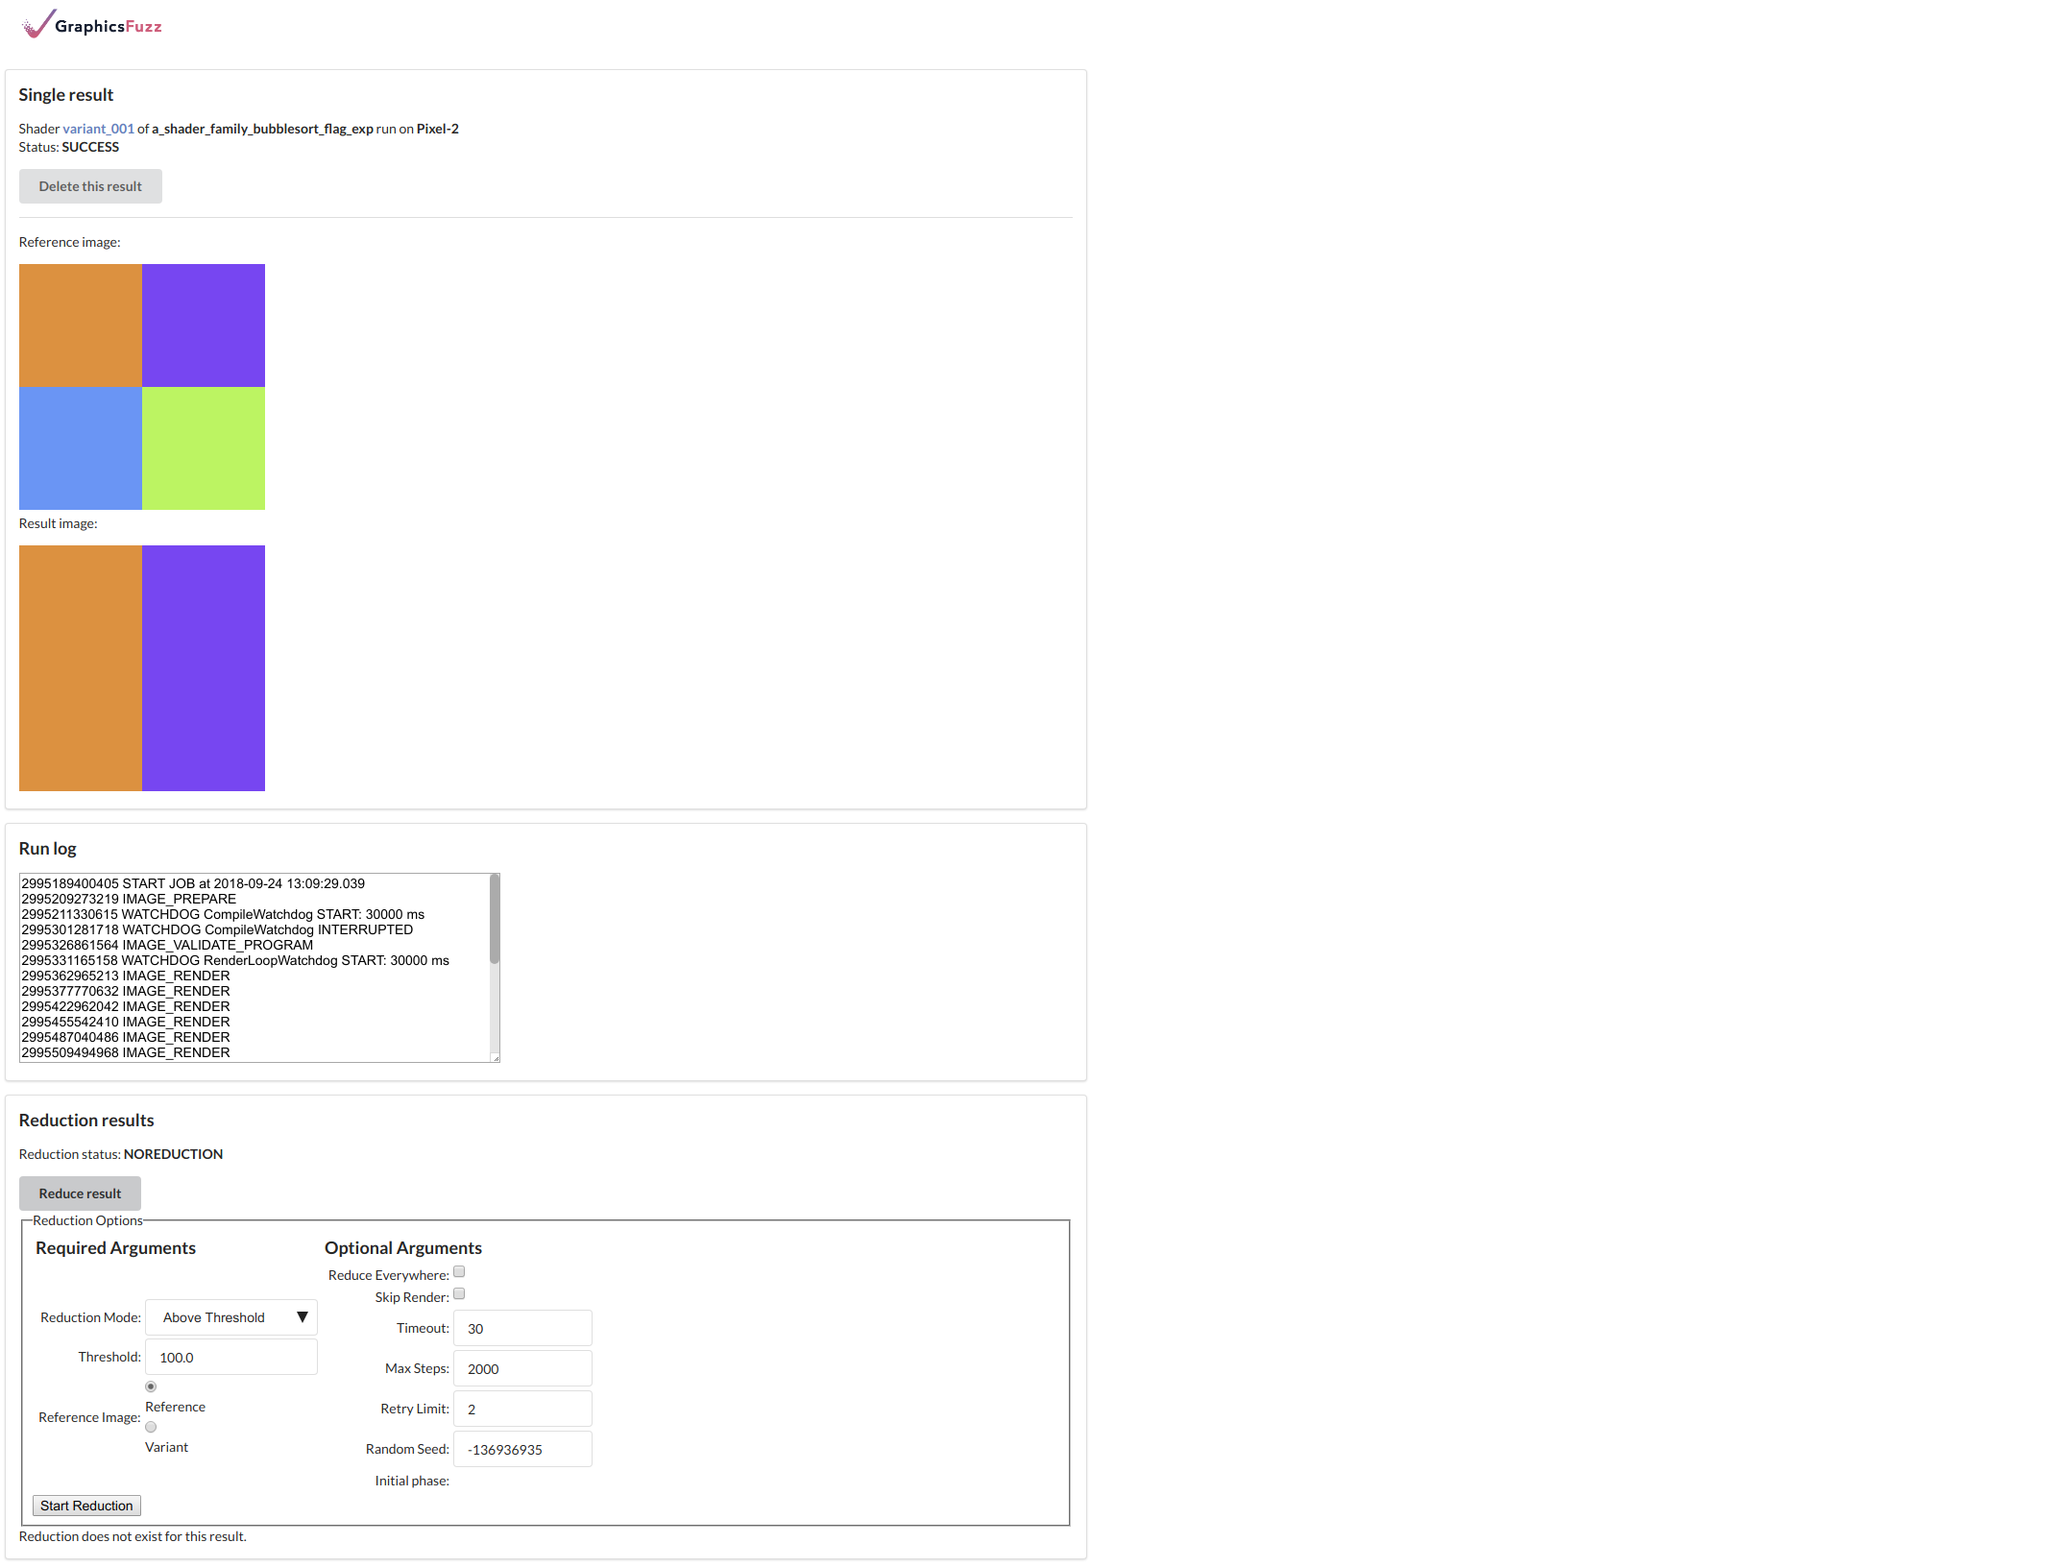
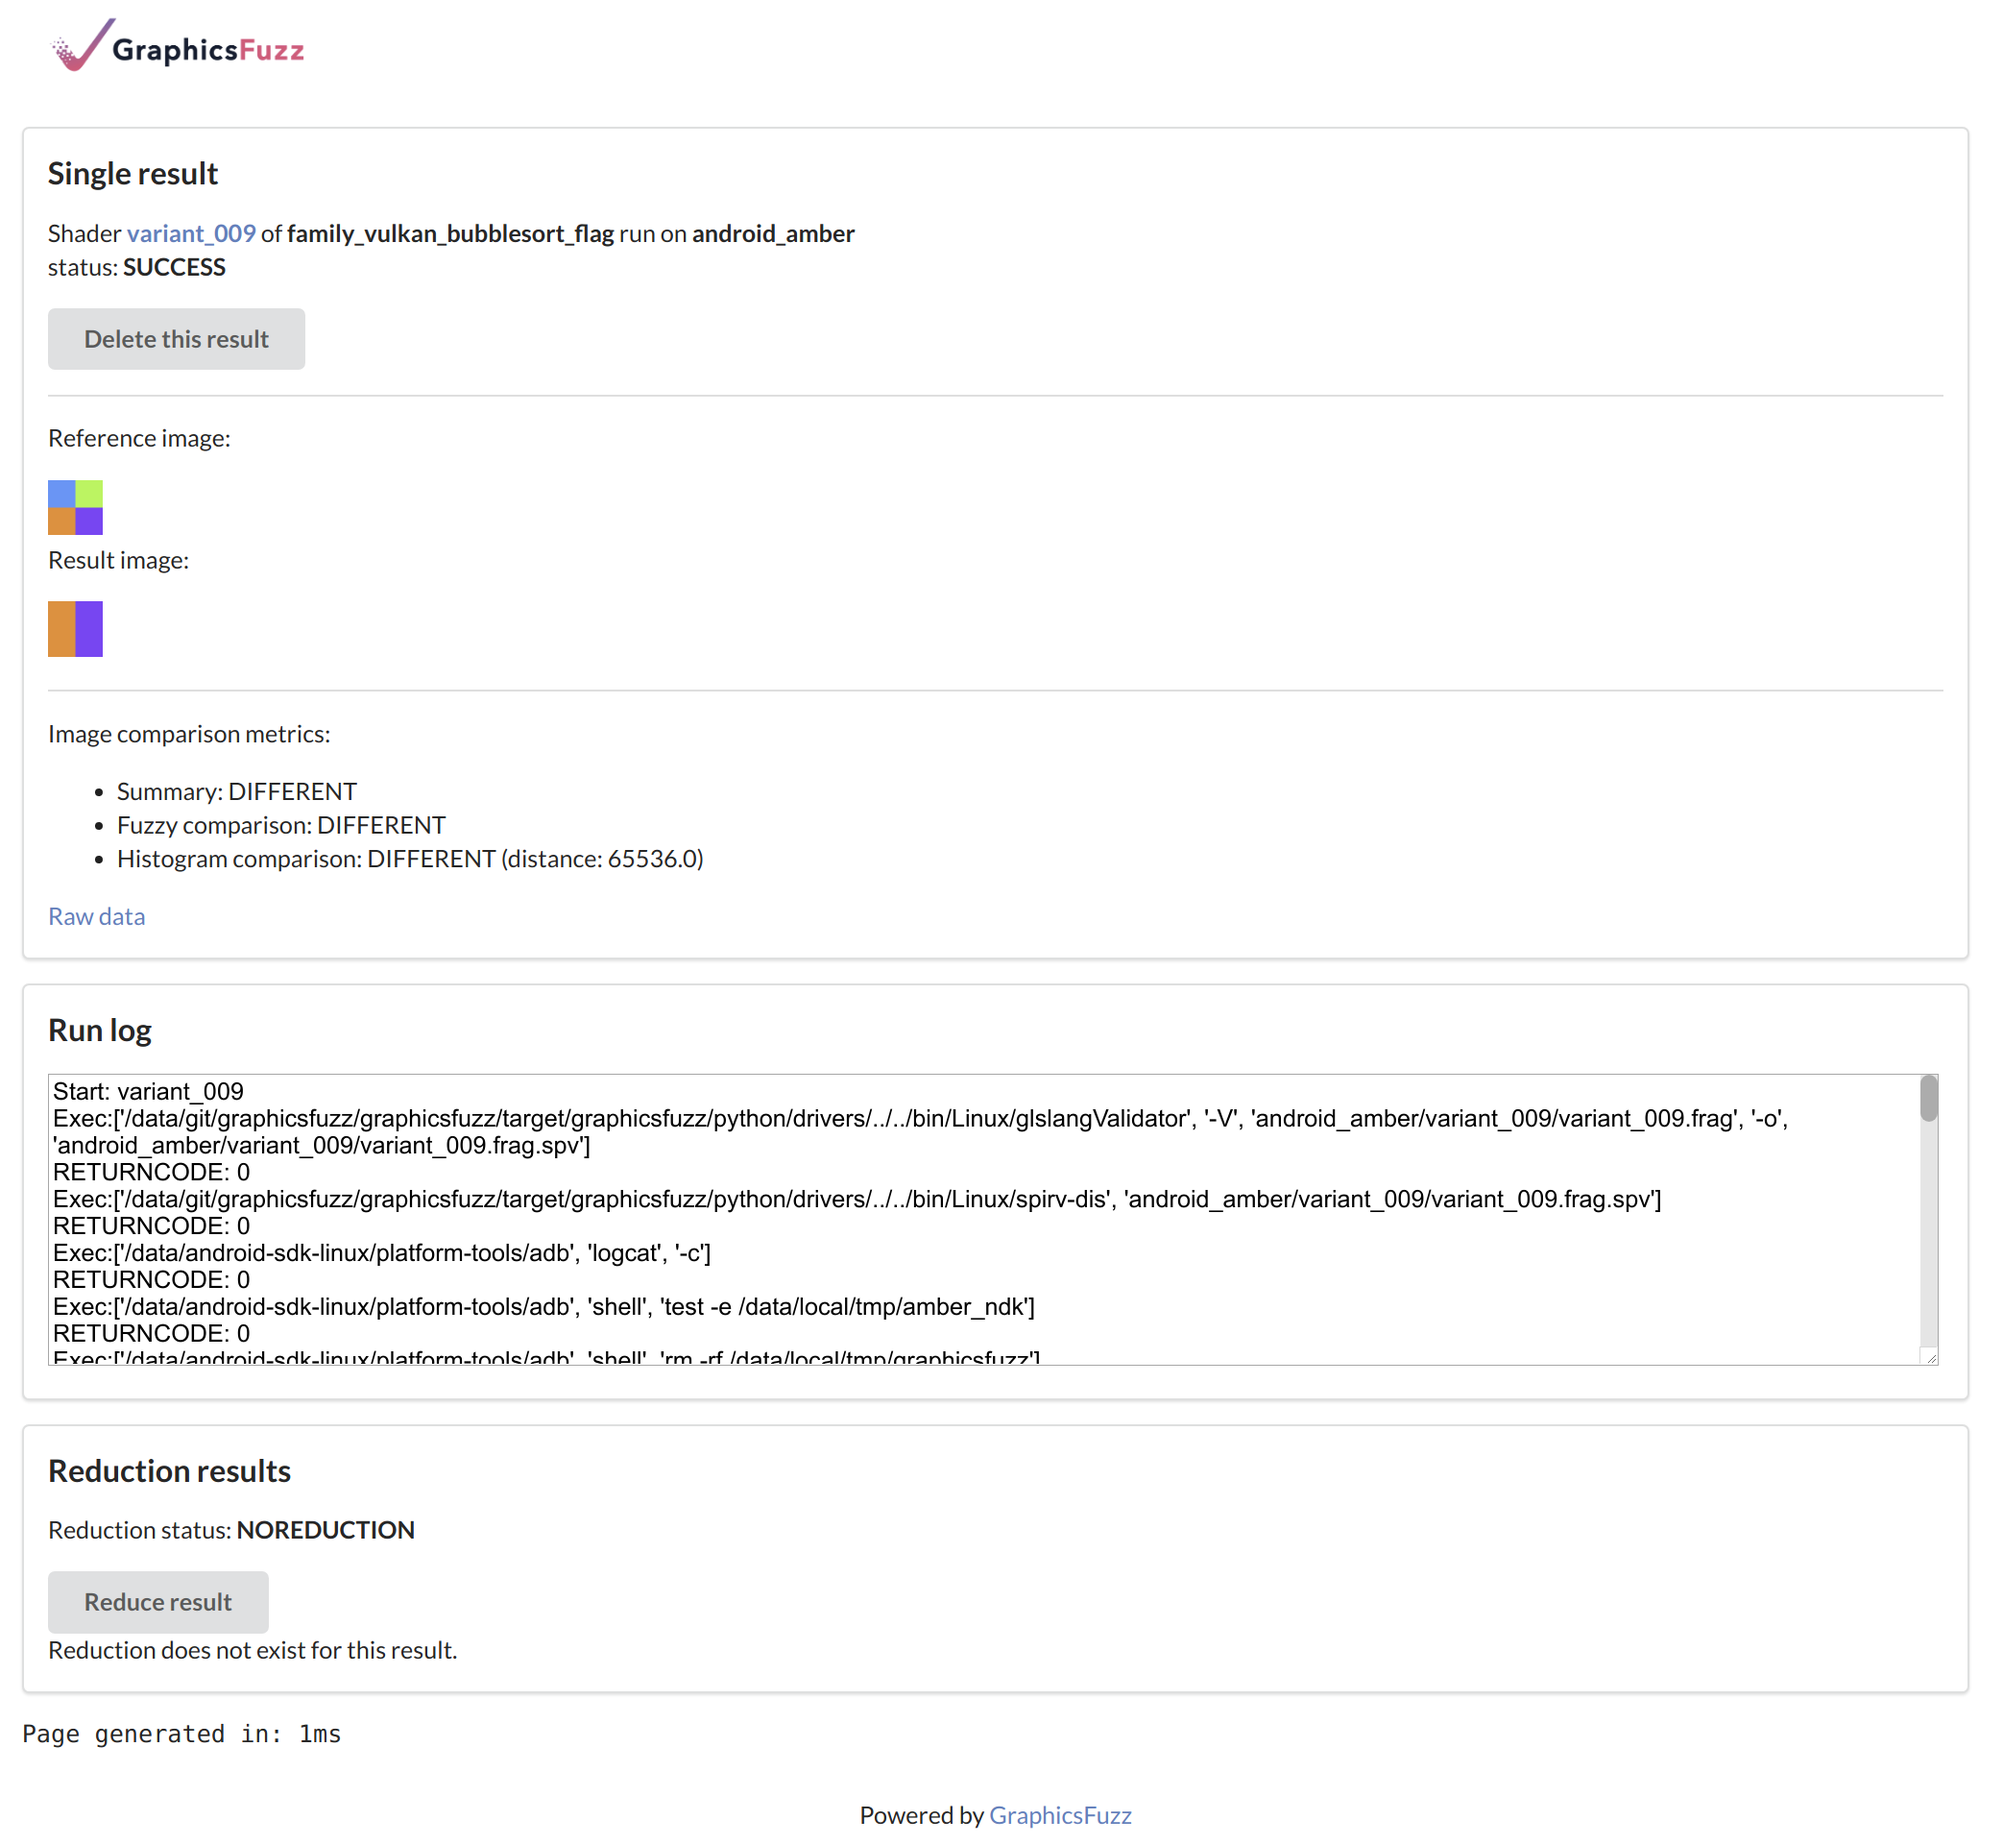
Update screen shots and instructions for image results/reductions

diff --git a/docs/glsl-fuzz-walkthrough.md b/docs/glsl-fuzz-walkthrough.md
@@ -509,16 +509,25 @@ the results for this family across all workers.
 
 ![Table of image results](images/screenshot-results-table.png)
 
-In the example above,
-the image for shader `variant_001` differs from the rest.
-Recall that all images should be identical,
-thus `variant_001` has exposed a bug that causes the wrong image to rendered.
+> Note the Legend in the screenshot above.
+> Two image comparison metrics are used to comare the actual rendered image
+> with the expected reference image: *histogram* and *fuzzy diff*.
+> The histogram comparison only considers the overall colors of the image,
+> while the fuzzy diff algorithm considers pixel locations with various thresholds
+> for pixel-movement and color variation.
+> The background color of each table cell indicates whether the image appears to be
+> incorrect according to both metrics.
 
-Clicking on `variant_001`
+In the example above,
+the image for shader `variant_009` differs from the rest.
+Recall that all images should be identical,
+thus `variant_009` has exposed a bug that causes the wrong image to rendered.
+
+Clicking on `variant_009`
 reveals the GLSL fragment shader source that
 triggered the bug:
 
-![Variant_001 fragment shader source](images/screenshot-variant-source.png)
+![Variant_009 fragment shader source](images/screenshot-variant-source.png)
 
 However,
 this shader is much larger and more complex than it needs to be
@@ -527,30 +536,45 @@ in the next section,
 we will reduce the shader to obtain a smaller and simpler shader
 that is more useful in understanding the root cause of the bug.
 
+Return to the results table view
+and click on the image under `variant_009`
+to reveal the single result page.
+
+![Variant_009 single result](images/screenshot-single-result-bad-image.png)
+
+*Images sizes have been reduced to fit more information into the screenshot.*
+
+As seen above,
+the reference image and result image are shown for comparison,
+as well as the results of the individual image comparison metrics
+(if the images are different).
+The *histogram distance* is shown, which can be useful when
+launching a reduction, as explained below. 
+
 
 ## Queuing a bad image reduction
 
 > Reductions for bad results from compute shaders cannot be launched via the Web UI.  [See how to launch them via the command line](#Performing-a-bad-result-reduction-for-a-compute-shader).
 
-Return to the results table view:
+![Variant_009 single result reduction panel](images/screenshot-single-result-bad-image-reduction.png)
 
-![Table of image results](images/screenshot-results-table.png)
-
-Click on the image under `variant_001`
-to reveal the single result page,
-and click the "Reduce result" button
-to reveal the reduction panel:
-
-![Variant_001 single result](images/screenshot-single-result-bad-image.png)
-
+From the single result page,
+click the "Reduce Result" button to reveal the reduction panel.
 From here,
 we can queue a reduction of the variant shader
 to find a smaller, simpler shader
 that still exposes the bug.
-The default reduction settings are sufficient, so just click
+The "fuzzy diff" algorithm is selected by default,
+which will work in this case,
+as both metrics detected the image as different from the reference.
+You can select the "HISTOGRAM_CHISQR" metric from the "Comparison metric" dropdown
+to switch the histogram comparison metric;
+you can then adjust the threshold based on the histogram distance reported
+higher up the page, although we find that 100.0 usually works,
+which is the default.
+In this case,
+the default reduction settings are sufficient, so just click
 "Start reduction".
-
-Once again, you should see the worker application rendering images.
 
 > Note that the server will not progress with the reduction until
 > all prior work for the specified worker has finished.
